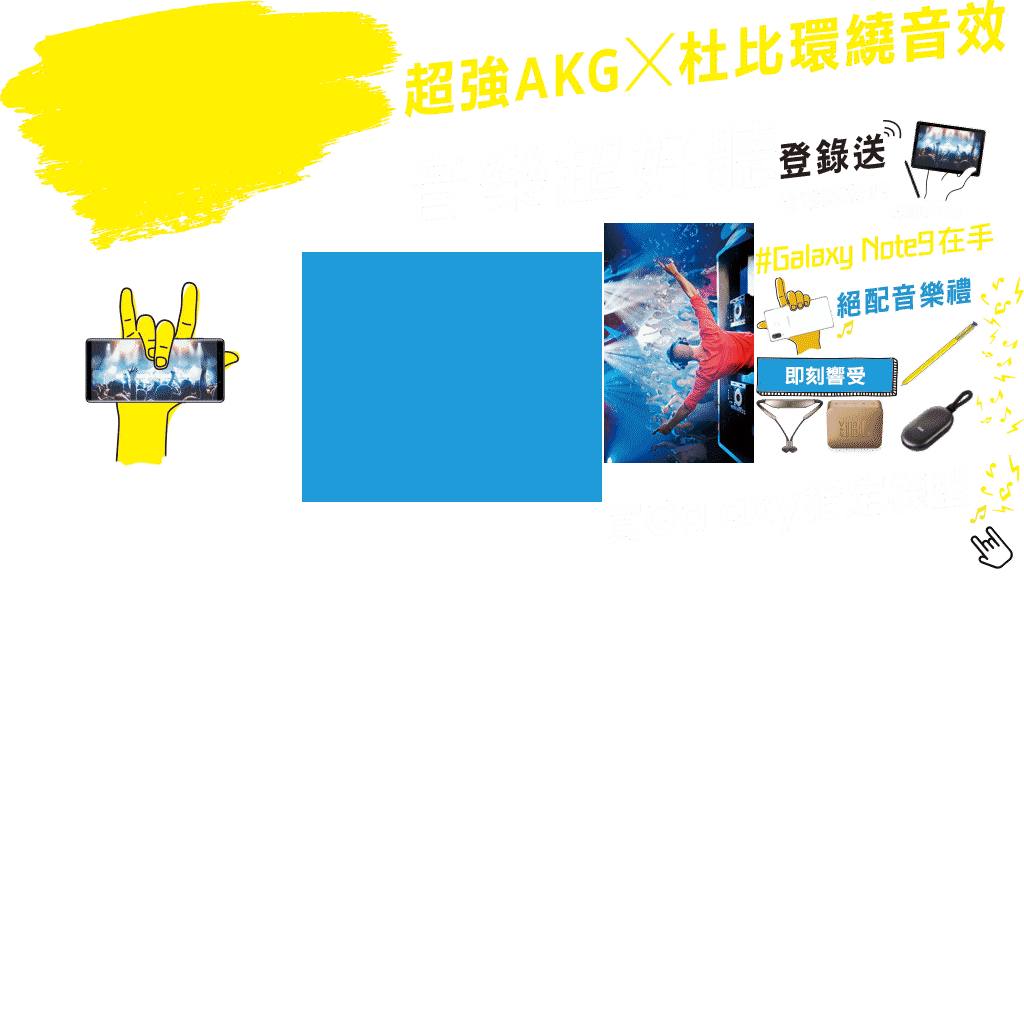
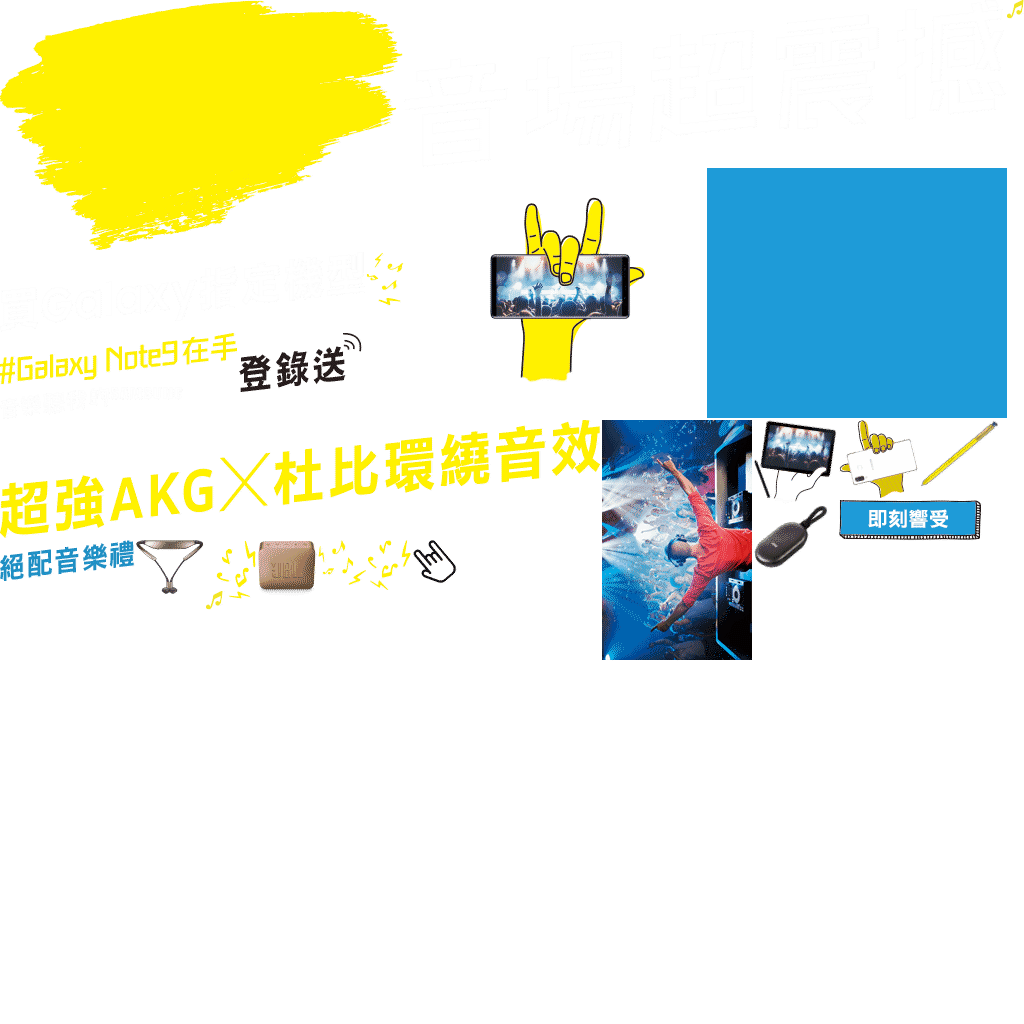
'update'

Changed region(s): [[0.0, 0.0938, 1.0, 0.6562], [0.375, 0.0, 1.0, 0.125]]

diff --git a/20180921/300x250_v2.js b/20180921/300x250_v2.js
@@ -3,7 +3,7 @@
 var p; // shortcut to reference prototypes
 var lib={};var ss={};var img={};
 lib.ssMetadata = [
-		{name:"300x250_v2_atlas_", frames: [[0,0,403,250],[302,252,300,250],[756,357,142,40],[970,526,43,43],[890,205,71,12],[970,454,50,70],[981,329,37,53],[756,277,79,78],[904,120,83,83],[837,320,17,19],[981,277,43,50],[976,389,48,45],[0,252,300,250],[900,389,74,63],[826,399,58,56],[756,399,68,54],[900,320,79,67],[604,223,150,240],[756,223,237,52],[779,181,109,31],[779,120,123,59],[837,277,134,41],[405,0,600,118],[405,120,372,101],[604,465,364,79]]}
+		{name:"300x250_v2_atlas_", frames: [[0,0,403,250],[707,168,300,250],[839,500,142,40],[413,540,43,43],[111,387,71,12],[206,540,50,70],[366,252,37,53],[839,420,79,78],[754,420,83,83],[1007,0,17,19],[368,540,43,50],[318,540,48,45],[405,168,300,250],[754,505,74,63],[258,540,58,56],[136,540,68,54],[920,420,79,67],[602,420,150,240],[0,333,237,52],[0,387,109,31],[239,333,123,59],[0,540,134,41],[0,420,600,118],[0,252,364,79],[405,0,600,166]]}
 ];
 
 
@@ -172,14 +172,14 @@ lib.ssMetadata = [
 
 
 
-(lib.ttt2 = function() {
+(lib.ttt3 = function() {
 	this.spriteSheet = ss["300x250_v2_atlas_"];
 	this.gotoAndStop(23);
 }).prototype = p = new cjs.Sprite();
 
 
 
-(lib.ttt3 = function() {
+(lib.ttt4 = function() {
 	this.spriteSheet = ss["300x250_v2_atlas_"];
 	this.gotoAndStop(24);
 }).prototype = p = new cjs.Sprite();
@@ -285,13 +285,14 @@ p.nominalBounds = new cjs.Rectangle(-41.5,-41.5,83,83);
 (lib.元件47 = function(mode,startPosition,loop) {
 	this.initialize(mode,startPosition,loop,{});
 
-	// 圖層 1
-	this.instance = new lib.ttt2();
+	// 圖層 2
+	this.instance = new lib.ttt4();
 	this.instance.parent = this;
+	this.instance.setTransform(-1,-4,0.625,0.625);
 
 	this.timeline.addTween(cjs.Tween.get(this.instance).wait(1));
 
-}).prototype = getMCSymbolPrototype(lib.元件47, new cjs.Rectangle(0,0,372,101), null);
+}).prototype = getMCSymbolPrototype(lib.元件47, new cjs.Rectangle(-1,-4,375.2,105), null);
 
 
 (lib.元件39 = function(mode,startPosition,loop) {
@@ -982,7 +983,7 @@ lib.properties = {
 	color: "#FFFFFF",
 	opacity: 1.00,
 	manifest: [
-		{src:"images/300x250_v2_atlas_.png?1537938089995", id:"300x250_v2_atlas_"}
+		{src:"images/300x250_v2_atlas_.png?1537948737547", id:"300x250_v2_atlas_"}
 	],
 	preloads: []
 };

diff --git a/20180921/300x250_v2.html b/20180921/300x250_v2.html
@@ -14,7 +14,7 @@
 <title>300x250_v2</title>
 <!-- write your code here -->
 <script src="https://code.createjs.com/createjs-2015.11.26.min.js"></script>
-<script src="300x250_v2.js?1537938090072"></script>
+<script src="300x250_v2.js?1537948737628"></script>
 <script>
 var canvas, stage, exportRoot, anim_container, dom_overlay_container, fnStartAnimation;
 function init() {
